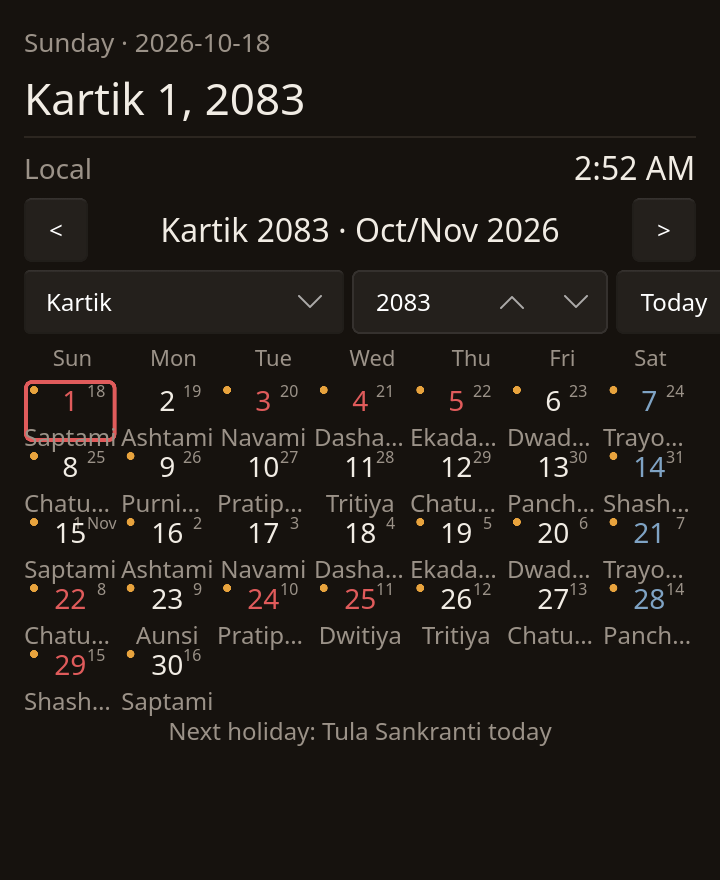
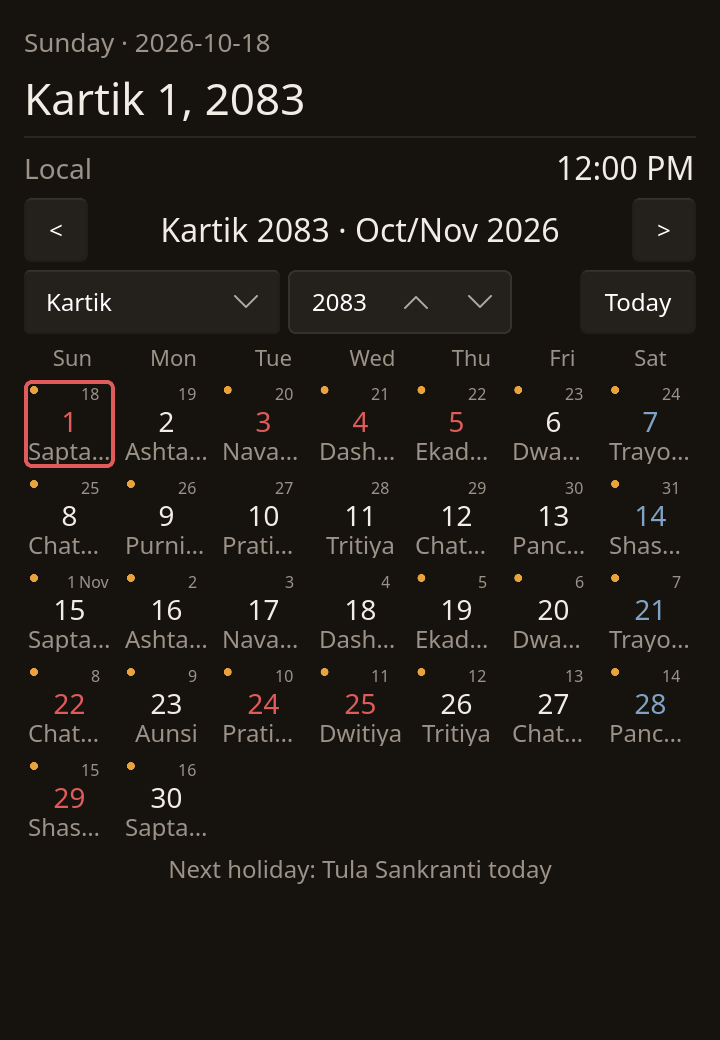
test(mitibar): W2R-05 pin the snapshots to a fixed date
The popup images changed every day because the grid followed the clock. The
snapshot feature now takes --today (a BS date) and pins the clock to 12:00,
so a re-render is byte-identical. --detail opens the day-detail card for a
date. Both flags are rejected without --popup --snapshot and do not exist in
the normal build.

Re-render the 8 month grids at Kartik 1, 2083, add the 6-row Baishakh 2081
pair and the day detail pair. All 12 are marked not verified.

diff --git a/apps/mitibar/src/main.rs b/apps/mitibar/src/main.rs
@@ -47,6 +47,8 @@ struct AppState {
     hidden_on: NepaliDate,
     /// The open day detail, if any (WR-04); cleared on hide and navigation.
     detail: Option<month_view::DayDetail>,
+    /// The fixed local date for a snapshot (`--today`); `None` in the normal app (W2 review).
+    today_override: Option<NepaliDate>,
 }
 
 /// A tray click within this long after focus loss hid the popup was the click that took the focus
@@ -60,6 +62,12 @@ struct Cli {
     popup: bool,
     #[cfg(feature = "snapshot")]
     snapshot: Option<PathBuf>,
+    /// A fixed BS date for the popup snapshot; never accepted by the normal app (W2 review).
+    #[cfg(feature = "snapshot")]
+    today: Option<NepaliDate>,
+    /// A BS date whose day-detail card the snapshot opens (W2 review).
+    #[cfg(feature = "snapshot")]
+    detail: Option<NepaliDate>,
     theme: Option<ThemeChoice>,
     lang: Option<Lang>,
     no_taskbar_text: bool,
@@ -69,6 +77,20 @@ struct Cli {
     taskbar_theme: Option<bool>, // Some(true) = dark taskbar
     #[cfg(all(windows, feature = "snapshot"))]
     taskbar_scale: Option<f32>,
+}
+
+/// Reads one `--today` or `--detail` value. Both flags are snapshot tools, so this helper is too.
+#[cfg(feature = "snapshot")]
+fn parse_bs_date(
+    args: &mut impl Iterator<Item = String>,
+    flag: &str,
+) -> anyhow::Result<NepaliDate> {
+    let value = args
+        .next()
+        .ok_or_else(|| anyhow::anyhow!("{flag} needs a BS date YYYY-MM-DD"))?;
+    value
+        .parse()
+        .map_err(|err| anyhow::anyhow!("{flag} must be a BS date YYYY-MM-DD: {err}"))
 }
 
 impl Cli {
@@ -87,6 +109,10 @@ impl Cli {
                         .ok_or_else(|| anyhow::anyhow!("--snapshot needs a path"))?;
                     cli.snapshot = Some(PathBuf::from(path));
                 }
+                #[cfg(feature = "snapshot")]
+                "--today" => cli.today = Some(parse_bs_date(&mut args, "--today")?),
+                #[cfg(feature = "snapshot")]
+                "--detail" => cli.detail = Some(parse_bs_date(&mut args, "--detail")?),
                 "--theme" => {
                     let value = args
                         .next()
@@ -153,6 +179,13 @@ impl Cli {
             if cli.popup && cli.snapshot.is_none() {
                 anyhow::bail!("--popup needs --snapshot");
             }
+            // Both flags are snapshot tools only: the normal app must never pin its date.
+            if cli.today.is_some() && !cli.popup {
+                anyhow::bail!("--today needs --popup --snapshot");
+            }
+            if cli.detail.is_some() && !cli.popup {
+                anyhow::bail!("--detail needs --popup --snapshot");
+            }
         }
         if cli.font_test && cli.popup {
             anyhow::bail!("--font-test and --popup are exclusive");
@@ -211,13 +244,21 @@ fn main() -> anyhow::Result<()> {
             .select()?;
     }
 
+    #[cfg(feature = "snapshot")]
+    let today = cli.today.unwrap_or_else(today_local);
+    #[cfg(not(feature = "snapshot"))]
     let today = today_local();
+    #[cfg(feature = "snapshot")]
+    let today_override = cli.today;
+    #[cfg(not(feature = "snapshot"))]
+    let today_override = None;
     let state = Rc::new(RefCell::new(AppState {
         settings,
         popup_hidden_at: None,
         viewed_month: (today.year(), today.month()),
         hidden_on: today,
         detail: None,
+        today_override,
     }));
     // The `--no-taskbar-text` flag turns WR-12 off for this run (W3 builds the settings UI).
     if cli.no_taskbar_text {
@@ -242,12 +283,7 @@ fn main() -> anyhow::Result<()> {
     // Snapshot the popup (W1 test tool): fill it with today's header and clocks, then render.
     #[cfg(feature = "snapshot")]
     if cli.popup {
-        let path = cli
-            .snapshot
-            .clone()
-            .ok_or_else(|| anyhow::anyhow!("--popup needs --snapshot"))?;
-        update_popup(&state, &popup.as_weak());
-        return snapshot(&popup, &path);
+        return snapshot_popup(&cli, &state, &popup, lang);
     }
 
     let popup_weak = popup.as_weak();
@@ -288,6 +324,26 @@ fn main() -> anyhow::Result<()> {
 
     slint::run_event_loop()?;
     Ok(())
+}
+
+/// Renders one popup snapshot. `--today` and `--detail` are snapshot-only (W2 review); the normal
+/// path never reaches this function, and the parser rejects both without `--popup`.
+#[cfg(feature = "snapshot")]
+fn snapshot_popup(
+    cli: &Cli,
+    state: &Rc<RefCell<AppState>>,
+    popup: &PopupWindow,
+    lang: Lang,
+) -> anyhow::Result<()> {
+    let path = cli
+        .snapshot
+        .clone()
+        .ok_or_else(|| anyhow::anyhow!("--popup needs --snapshot"))?;
+    if let Some(detail) = cli.detail {
+        state.borrow_mut().detail = Some(month_view::day_detail(detail, lang));
+    }
+    update_popup(state, &popup.as_weak());
+    snapshot(popup, &path)
 }
 
 /// Handles a WR-01 tray event. `Settings` opens no panel in W1 (W3 builds it).
@@ -383,7 +439,7 @@ fn update_popup(state: &Rc<RefCell<AppState>>, popup_weak: &Weak<PopupWindow>) {
         return;
     };
     let s = state.borrow();
-    let now = jiff::Zoned::now();
+    let now = popup_now(&s);
     let lang = s.settings.lang();
     let header = clock::header(&now, lang);
     let lines = clock::clock_lines(&now, &s.settings);
@@ -405,6 +461,19 @@ fn update_popup(state: &Rc<RefCell<AppState>>, popup_weak: &Weak<PopupWindow>) {
 fn today_local() -> NepaliDate {
     let now = jiff::Zoned::now();
     NepaliDate::try_from(now.date()).unwrap_or(NepaliDate::MIN)
+}
+
+/// The local time the popup renders. A snapshot can pin the date with `--today` and the clock to
+/// noon, so re-rendering the same image does not change it (W2 review).
+fn popup_now(s: &AppState) -> jiff::Zoned {
+    let now = jiff::Zoned::now();
+    let Some(today) = s.today_override else {
+        return now;
+    };
+    let ad: jiff::civil::Date = today.into();
+    // Noon is a valid local time in nearly every zone, so a pinned date still builds a Zoned.
+    let noon = jiff::civil::Time::new(12, 0, 0, 0).unwrap_or(now.time());
+    now.with().date(ad).time(noon).build().unwrap_or(now)
 }
 
 /// Records that the popup hid on today's BS date, so a reopen on a later date resets the month

diff --git a/docs/plan/PROGRESS.md b/docs/plan/PROGRESS.md
@@ -73,3 +73,4 @@ One row per task (hub `docs/handover.md` §3). Status is `done`, `blocked` (on w
 | W1R checkpoint | ready for review | this commit | `xtask ci: all 23 steps passed` | Commits `e0b4cf2` (W1R-01), `f8bb374` (W1R-02), `03d90cb` (W1R-03), `466e6a4` (W1R-04), after `7870996` (`cargo deny`: ignore RUSTSEC-2026-0370, 0371 and 0372, which also fail on `main` after the advisory database update). W1R-01 also moved the `.po`, because Slint fails the build without `i18n/ne/LC_MESSAGES/mitibar.po` for the new domain. Log check: `%LOCALAPPDATA%\mitibar\mitibar.log`, first line `mitibar logging to <path>`. W1 popup snapshots regenerated on 2026-10-18 and **not verified**; the tray and taskbar snapshots render no title or tooltip, so they are untouched. `git log --follow apps/mitibar/src/main.rs` reaches `cf4402c` (W0-01). Old-name grep is clean except ADR-0017, `L0`, `L6`, the W1R plan, `spike-results` and the PROGRESS/W0/W1/W1B history, all reported with reasons |
 | W1R review | done | this commit | agent `xtask ci: all 23 steps passed` (not rerun: E: is short of space) | Reviewer checked: no `Mitibar`, `MITIBAR` or `miti-bar` anywhere outside the plan's own rule; no old window-class or crate identifier under `apps/`; one `APP_NAME` used by the tray tooltip and the Slint `AppInfo` global; the four regenerated popup snapshots render correctly (the title lives in the OS title bar, which the snapshot does not show). `deny.toml` ignores RUSTSEC-2026-0370 to 0372 with reasons: unmaintained (not vulnerable) crates in the Linux-only zbus chain under Slint 1.18; revisit when Slint updates. Accepted: the `.po` move in W1R-01 (the build needs it), the grep leftovers in finished plans and ADR-0017. Old `%LOCALAPPDATA%\nepdate-widget` folder is left, per ADR-0017 |
 | W2 checkpoint | ready for review | this commit | `xtask ci: all 23 steps passed` | Commits `16799c3` (W2-00), `ad9a145` (W2-01), `84462bb` (W2-04), `28cdcb5` (W2-02), `9d50024` (W2-03), `cb6bd6b` (W2-05), `cb5ecfb` (W2-06). W2-04 came before W2-02 because the grid's holiday line needs the search. 51 tests. Coverage (`cargo llvm-cov -p mitibar --all-features`, platform, theme, ui_bridge and main ignored): 99.00 % lines, 98.87 % regions over 804 lines. Month build 14.2 µs in a release run with `log::debug`, against the 16 ms target. 8 snapshots in `docs/plan/spike-results/w2/` (light/dark, en/ne, 1x/2x), **not verified**. A 6-row month (2081 Baishakh) and the day-detail card were checked only in local previews, not committed. Manual checklist notes added; keyboard, screen reader, copy buttons and the real taskbar interaction were not run. Doubtful: the year SpinBox stays ASCII in the Nepali UI (standard widget); the AD long date and AD month markers stay Latin by widget-design §4; long tithi names elide and start left in the cell |
+| W2 review fixes | ready for review | this commit | `xtask ci: all 23 steps passed` | Commits `1a3b33e` (W2R-01), `8d4479e` (W2R-02), `212b9cf` (W2R-03), `a6f1856` (W2R-04), this one (W2R-05). Popup 360×520 (WR-02 AC1); 44 px cells with an AD superscript line, a BS line and a tithi line, 3 px row gaps; selector row 128/112 px pickers. Saturday and public holiday are separate flags and the holiday colour wins. AD marker on every 1st. 12 snapshots in `docs/plan/spike-results/w2/` with `--today` pinned (8 month, 2 six-row Baishakh 2081, 2 day detail), **not verified**. No BS month in 1901..2199 starts on an AD 1st (start days 10..20), so the reviewed first-cell branch was unreachable; the rule is position-independent and the test records the data fact. The AD superscript stays 8 px and long tithi names still elide |

diff --git a/docs/plan/spike-results/w2/README.md b/docs/plan/spike-results/w2/README.md
@@ -1,8 +1,14 @@
 # W2 spike results (month grid, navigation, day detail)
 
 Generated on Windows 11 with the MSVC toolchain on 2026-10-18. Each PNG is the popup rendered by
-`--popup --snapshot <png> --theme light|dark --lang en|ne`, with `SLINT_SCALE_FACTOR=1` or `2`.
-The grid shows today's month (Kartik 2083) and the header uses the same local date.
+`--popup --snapshot <png> --theme light|dark --lang en|ne --today <BS date>`, with
+`SLINT_SCALE_FACTOR=1` or `2`. `--today` pins the calendar date and the clock to 12:00, so
+re-rendering an image does not change it. The eight month grids show Kartik 2083 (`--today
+2083-07-01`); the six-row pair shows Baishakh 2081 (`--today 2081-01-15`); the detail pair shows
+Baishakh 1, 2081, a Saturday and a public holiday (`--today 2081-01-01 --detail 2081-01-01`).
+
+`--today` and `--detail` exist only in the `snapshot` feature, and the parser rejects them without
+`--popup --snapshot`, so the normal app can never pin its date.
 
 The agent cannot judge the images, so every verdict is **not verified**: the reviewer looks.
 
@@ -16,11 +22,18 @@ The agent cannot judge the images, so every verdict is **not verified**: the rev
 | `month-grid-dark-en-2x.png` | dark theme, English, 200 % | not verified |
 | `month-grid-dark-ne-1x.png` | dark theme, Nepali, 100 % | not verified |
 | `month-grid-dark-ne-2x.png` | dark theme, Nepali, 200 % | not verified |
+| `month-grid-6row-light-en-1x.png` | 6-row Baishakh 2081, light, English, 100 % | not verified |
+| `month-grid-6row-light-ne-2x.png` | 6-row Baishakh 2081, light, Nepali, 200 % | not verified |
+| `day-detail-light-en-1x.png` | day detail card, light, English, 100 % | not verified |
+| `day-detail-dark-ne-2x.png` | day detail card, dark, Nepali, 200 % | not verified |
 
 Layout: a two-line header, the title row (previous / title / next), the month and year pickers plus
-Today, the Sunday-first weekday row, the 7-column grid (31 px cells), and the next-holiday line.
-A 6-row month (2081 Baishakh) was rendered locally and fits the 440 px popup with the holiday line;
-that preview is not committed.
+Today, the Sunday-first weekday row, the 7-column grid, and the next-holiday line. The popup is
+360×520. Each cell is 44 px with an AD superscript line, the BS day and the tithi, so one row's
+tithi no longer touches the next row's numerals, and the today ring encloses the whole cell. The
+month picker is 128 px and the year 112 px, which keeps Today inside the 24 px margins in both
+languages.
 
-The day detail is an inline card over a scrim, not a new window; it was rendered in local previews
-(light English and dark Nepali, 2x) and is not committed. The reviewer opens it from a day cell.
+The day detail is an inline card over a scrim, not a new window. The pair shows the BS and AD long
+dates, weekday, tithi, the public-holiday badge and three events. The copy buttons and the Escape
+order were not run.

diff --git a/docs/runbooks/widget-manual-test.md b/docs/runbooks/widget-manual-test.md
@@ -3,7 +3,9 @@
 Copy this file per release/OS and tick. OS: Windows 11 Home Version: (agent run) Tester: agent Date: 2026-10-15
 
 W2 agent run 2026-10-18: unit tests and the `--popup --snapshot` tool at 1x/2x, light/dark and
-en/ne. No UI click, keyboard or screen-reader run was made; those lines stay unticked.
+en/ne, with `--today` pinning the date and the clock to 12:00. 12 snapshots are in
+`docs/plan/spike-results/w2/`. No UI click, keyboard or screen-reader run was made; those lines
+stay unticked.
 
 ## Tray (WR-01)
 - [x] AC1 Icon/title visible after start (app stayed running with the popup hidden, which Slint only does while a `SystemTrayIcon` is visible)
@@ -19,11 +21,12 @@ en/ne. No UI click, keyboard or screen-reader run was made; those lines stay unt
 - [x] AC4 Light/dark/system themes; Devanagari renders per `docs/plan/devanagari-test-strings.md` (light+dark and en+ne popup snapshots in `docs/plan/spike-results/w1/`)
 
 ## Month grid (WR-03) / Day detail (WR-04)
-- [x] Grid shape, AD numbers, today outline, Saturday/holiday tint (unit tests `wr03_ac1_rows` to `wr03_ac3_saturday_and_holiday_tint`; 8 snapshots in `docs/plan/spike-results/w2/`, not verified)
-- [x] Tithi + event dots in 2081; nothing shown (no error) in 2090 (unit test `wr03_ac4_no_event_data_outside_coverage`; the snapshots show 2083, not verified)
+- [x] Grid shape, AD numbers, today outline, Saturday/holiday tint, 44 px rows (unit tests `wr03_ac1_rows` to `wr03_ac3_saturday_and_holiday_tint`; 12 snapshots in `docs/plan/spike-results/w2/`, not verified)
+- [x] Tithi + event dots in 2081; nothing shown (no error) in 2090 (unit test `wr03_ac4_no_event_data_outside_coverage`; the month snapshots show 2083, the 6-row pair 2081, not verified)
 - [ ] Prev/next/today/pickers/wheel; disabled at 1901-01 and 2199-12 (model and `step_month` unit tests pass; the controls were not clicked)
 - [x] Next-holiday line (the snapshots show `Next holiday: Tula Sankranti today`; unit tests `wr03_ac8_*`; not verified)
-- [ ] Day detail content + copy buttons; Escape order (the card rendered in a local preview; the copy buttons and the Escape order were not run, not verified)
+- [x] Day detail content (snapshots `day-detail-light-en-1x.png` and `day-detail-dark-ne-2x.png`, not verified)
+- [ ] Day detail copy buttons; Escape order (the card rendered, but the buttons and the Escape order were not run)
 
 ## Clock (WR-05)
 - [x] Local + Kathmandu shown; Kathmandu hidden when the machine is set to Asia/Kathmandu (unit test `wr05_ac1_hides_extra_zone_with_same_offset`)
